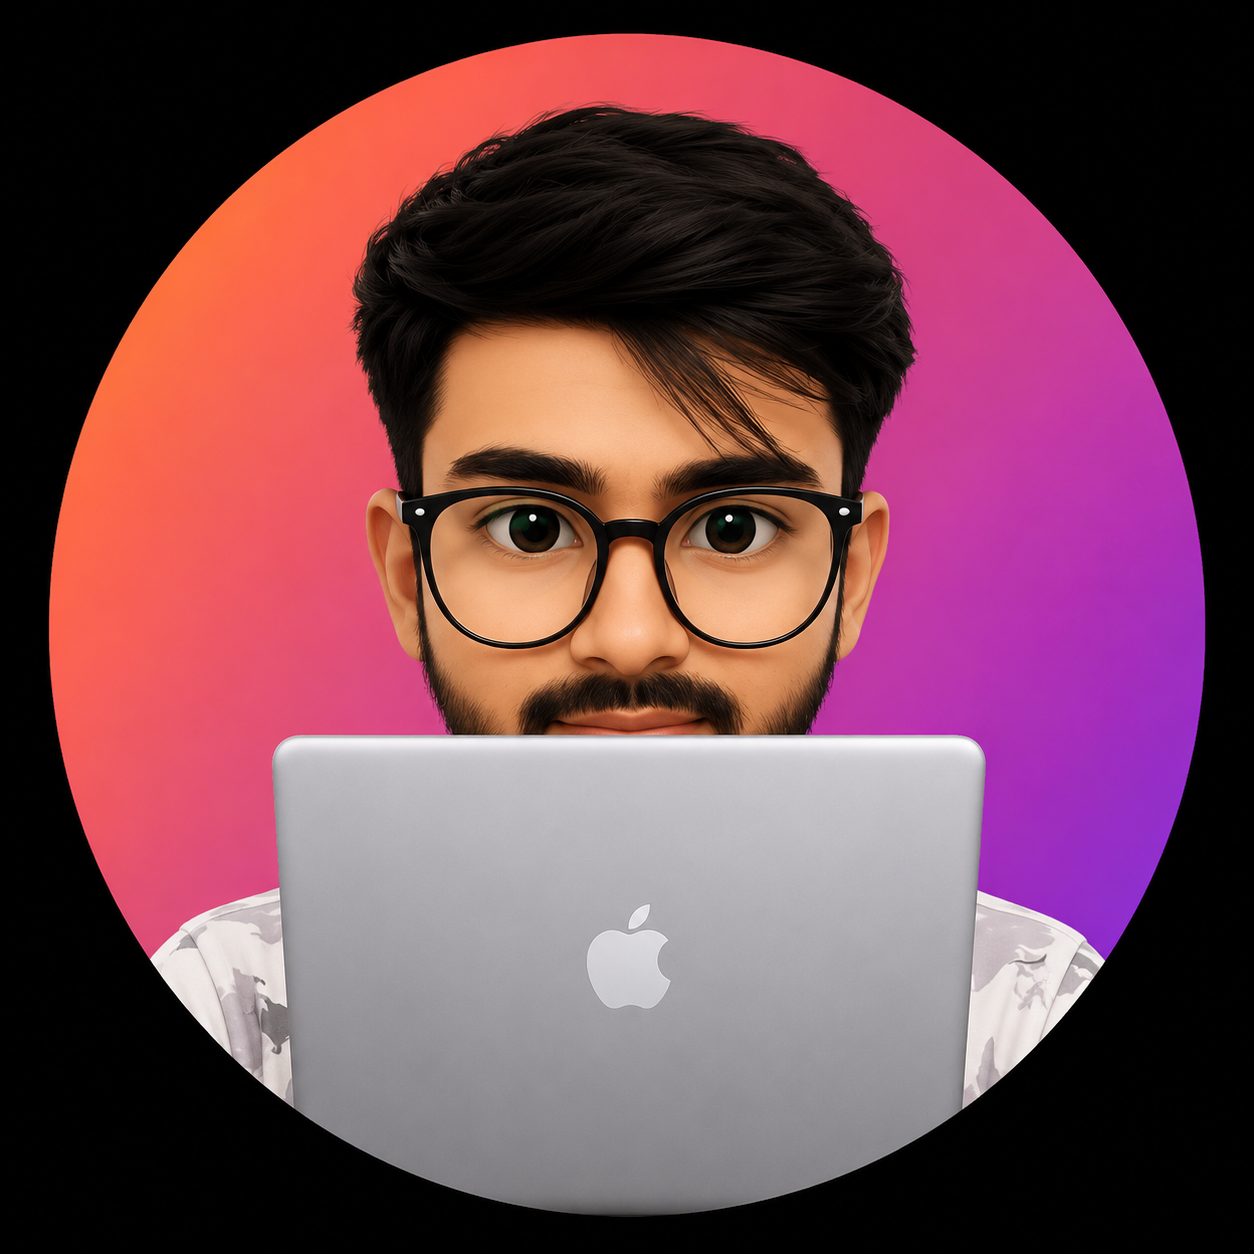
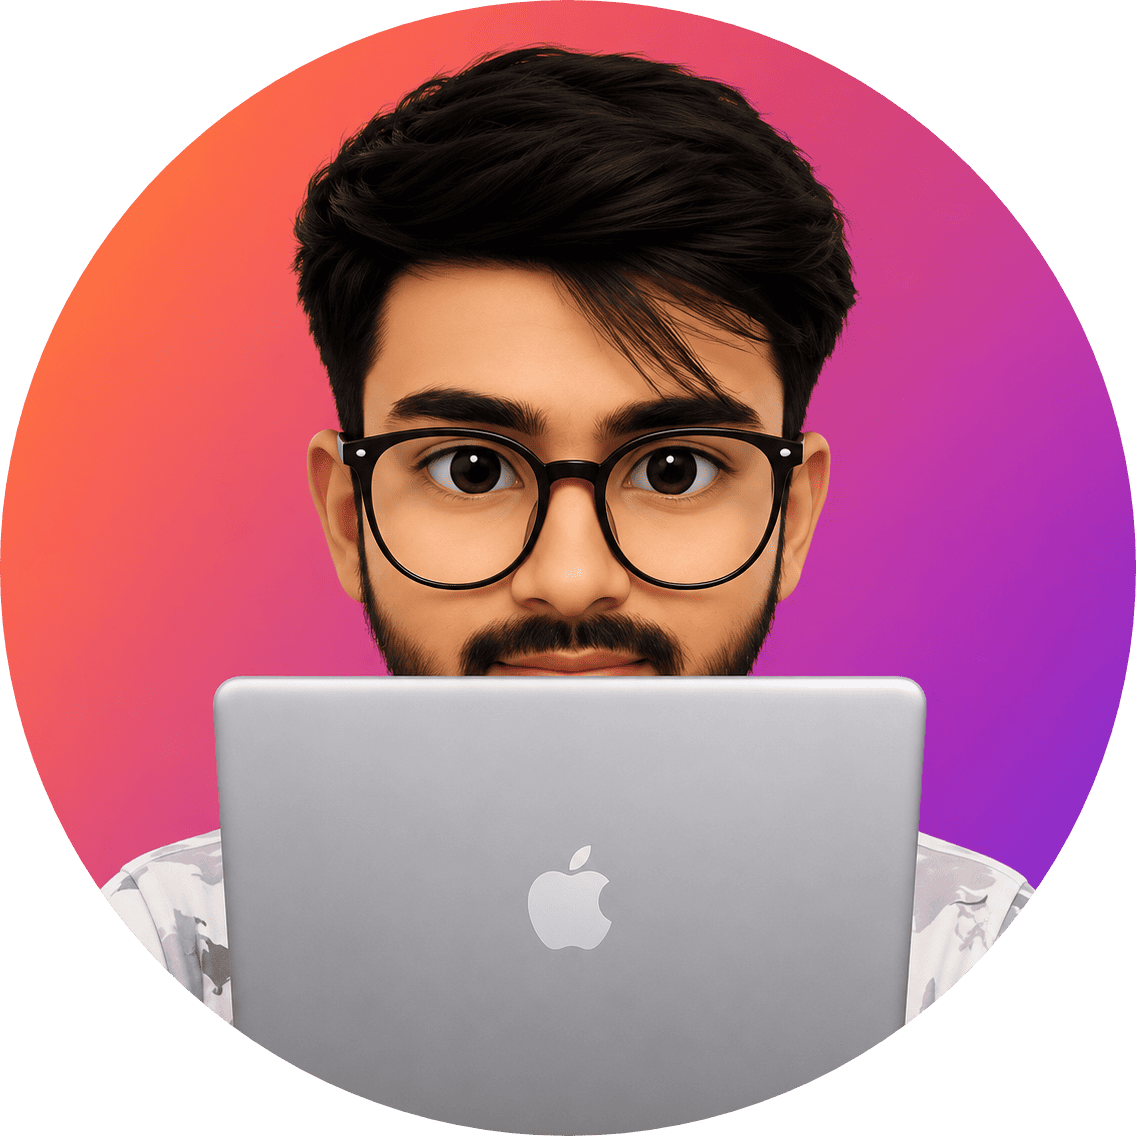
compress assets size for smooth loding

diff --git a/frontend/src/assets/assets.js b/frontend/src/assets/assets.js
@@ -11,7 +11,6 @@ import LinkedIn from './LinkedIn.svg'
 import GitHub from './github.svg'
 import LightGithub from './LightGithub.svg'
 import LightLinkedIn from './LightLinkedIn.svg'
-import LightHeroImage from './LightHeroImage.png'
 import LightJavascript from './LightJavascript.svg'
 import LightHtml from './LightHtml.svg'
 import LightCss from './LightCss.svg'
@@ -20,7 +19,7 @@ import LightNodejs from './LightNodejs.png'
 import myBlog from './myBlog.jpeg'
 import ayursetu from './ayursetu.jpeg'
 
-const assets = {logo,heroImage,javascript,css,html,nodejs,reactjs,LinkedIn,GitHub,lightLogo,LightGithub,LightLinkedIn,LightHeroImage,LightHtml,LightJavascript,LightCss,LightReact,LightNodejs,myBlog,ayursetu}
+const assets = {logo,heroImage,javascript,css,html,nodejs,reactjs,LinkedIn,GitHub,lightLogo,LightGithub,LightLinkedIn,LightHtml,LightJavascript,LightCss,LightReact,LightNodejs,myBlog,ayursetu}
 
 export const experiences = [
     {logo: ayurlogo, title: "Ayursetu", timeline: "Present", description: "Built a complete appointment-booking platform for an Ayurvedic doctor. Implemented appointment scheduling, user authentication, profile management and appointment history. Integrated Razorpay for online payments and Cloudinary for image management. Developed the frontend with React + Tailwind CSS and backend APIs with Node.js + Express.js. Deployed the application for real-world use."},

diff --git a/frontend/src/Components/Home.jsx b/frontend/src/Components/Home.jsx
@@ -7,15 +7,16 @@ const Home = () => {
   return (
     <div className="">
       <div className="flex flex-col items-center gap-5 pt-16 sm:pt-23">
-        {theme === "dark" ? (
-          <img className="w-40 sm:w-43" src={assets.heroImage} alt="" />
+        {/* {theme === "dark" ? (
+          <img className="w-38 sm:w-40" src={assets.heroImage} alt="" />
         ) : (
           <img
             className="w-40 sm:w-43 mask-b-from-70% mask-radial-[50%_90%] mask-radial-from-85%"
-            src={assets.LightHeroImage}
+            src={assets.heroImage}
             alt=""
           />
-        )}
+        )} */}
+        <img className="w-38 sm:w-40" src={assets.heroImage} alt="" />
         <h1 className="text-4xl font-bold text-center leading-11 heading mx-3 sm:mx-0 light:text-slate-800/90">
           Building scalable
           <br />
